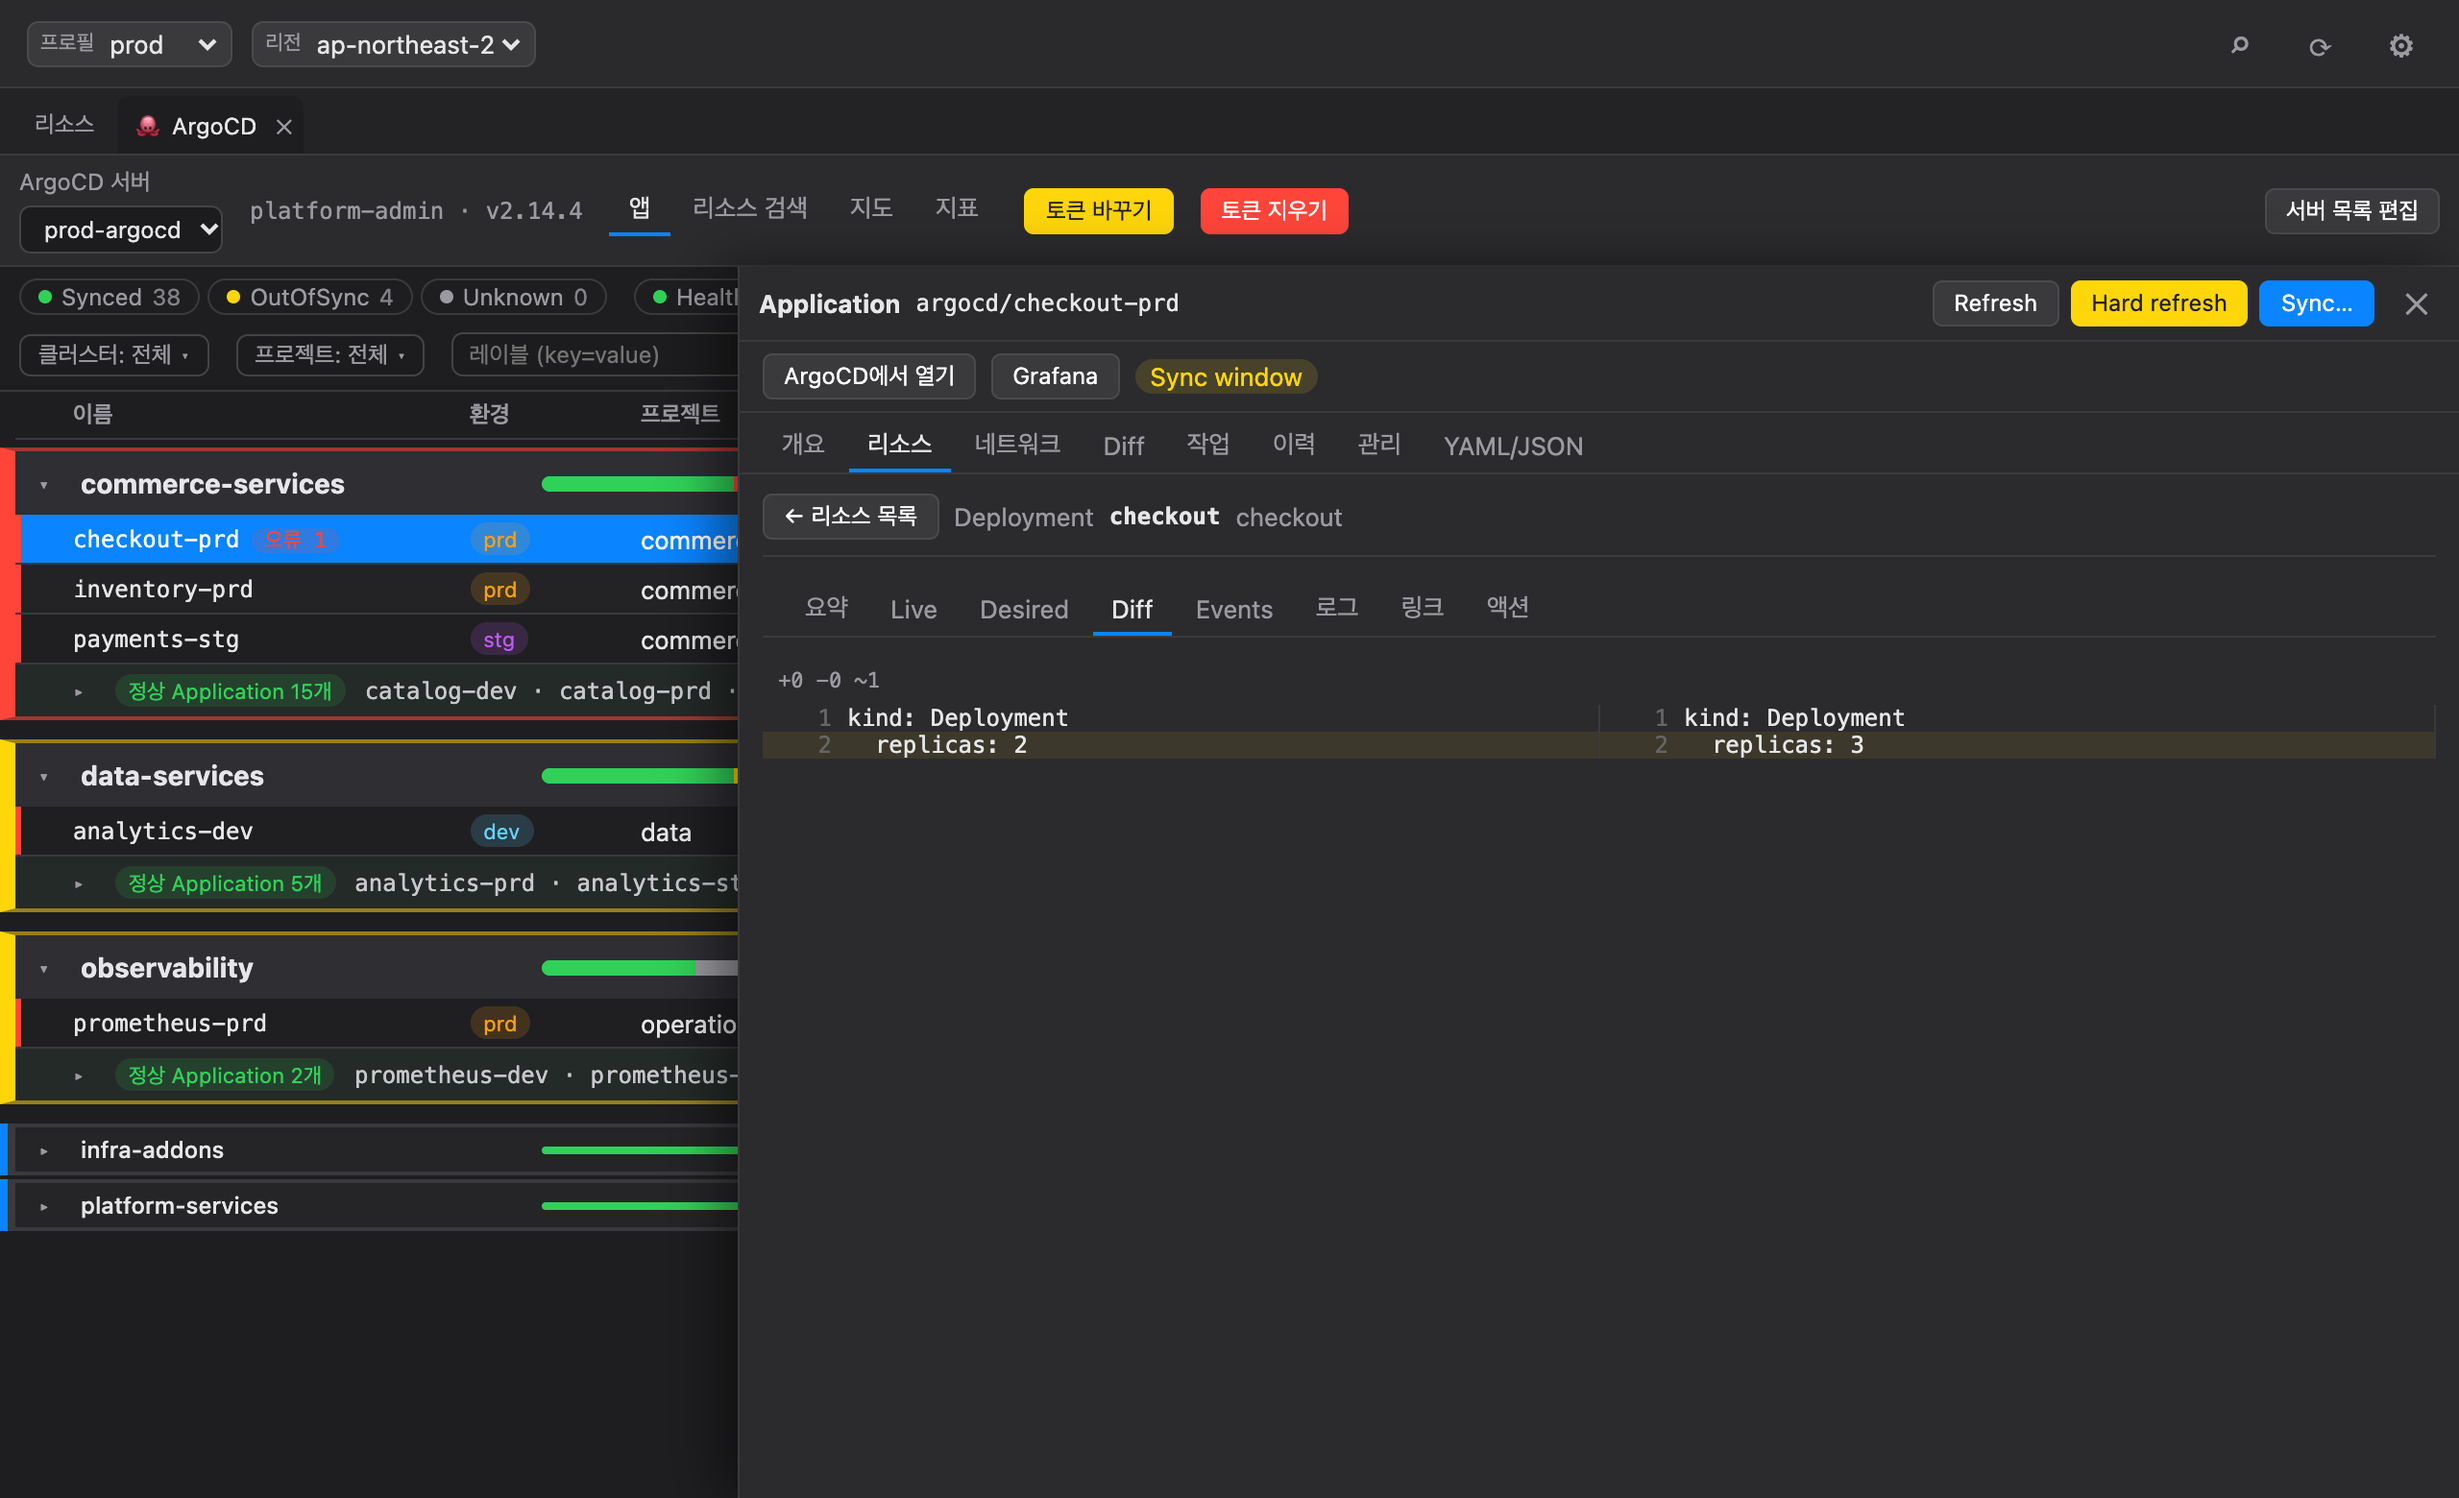
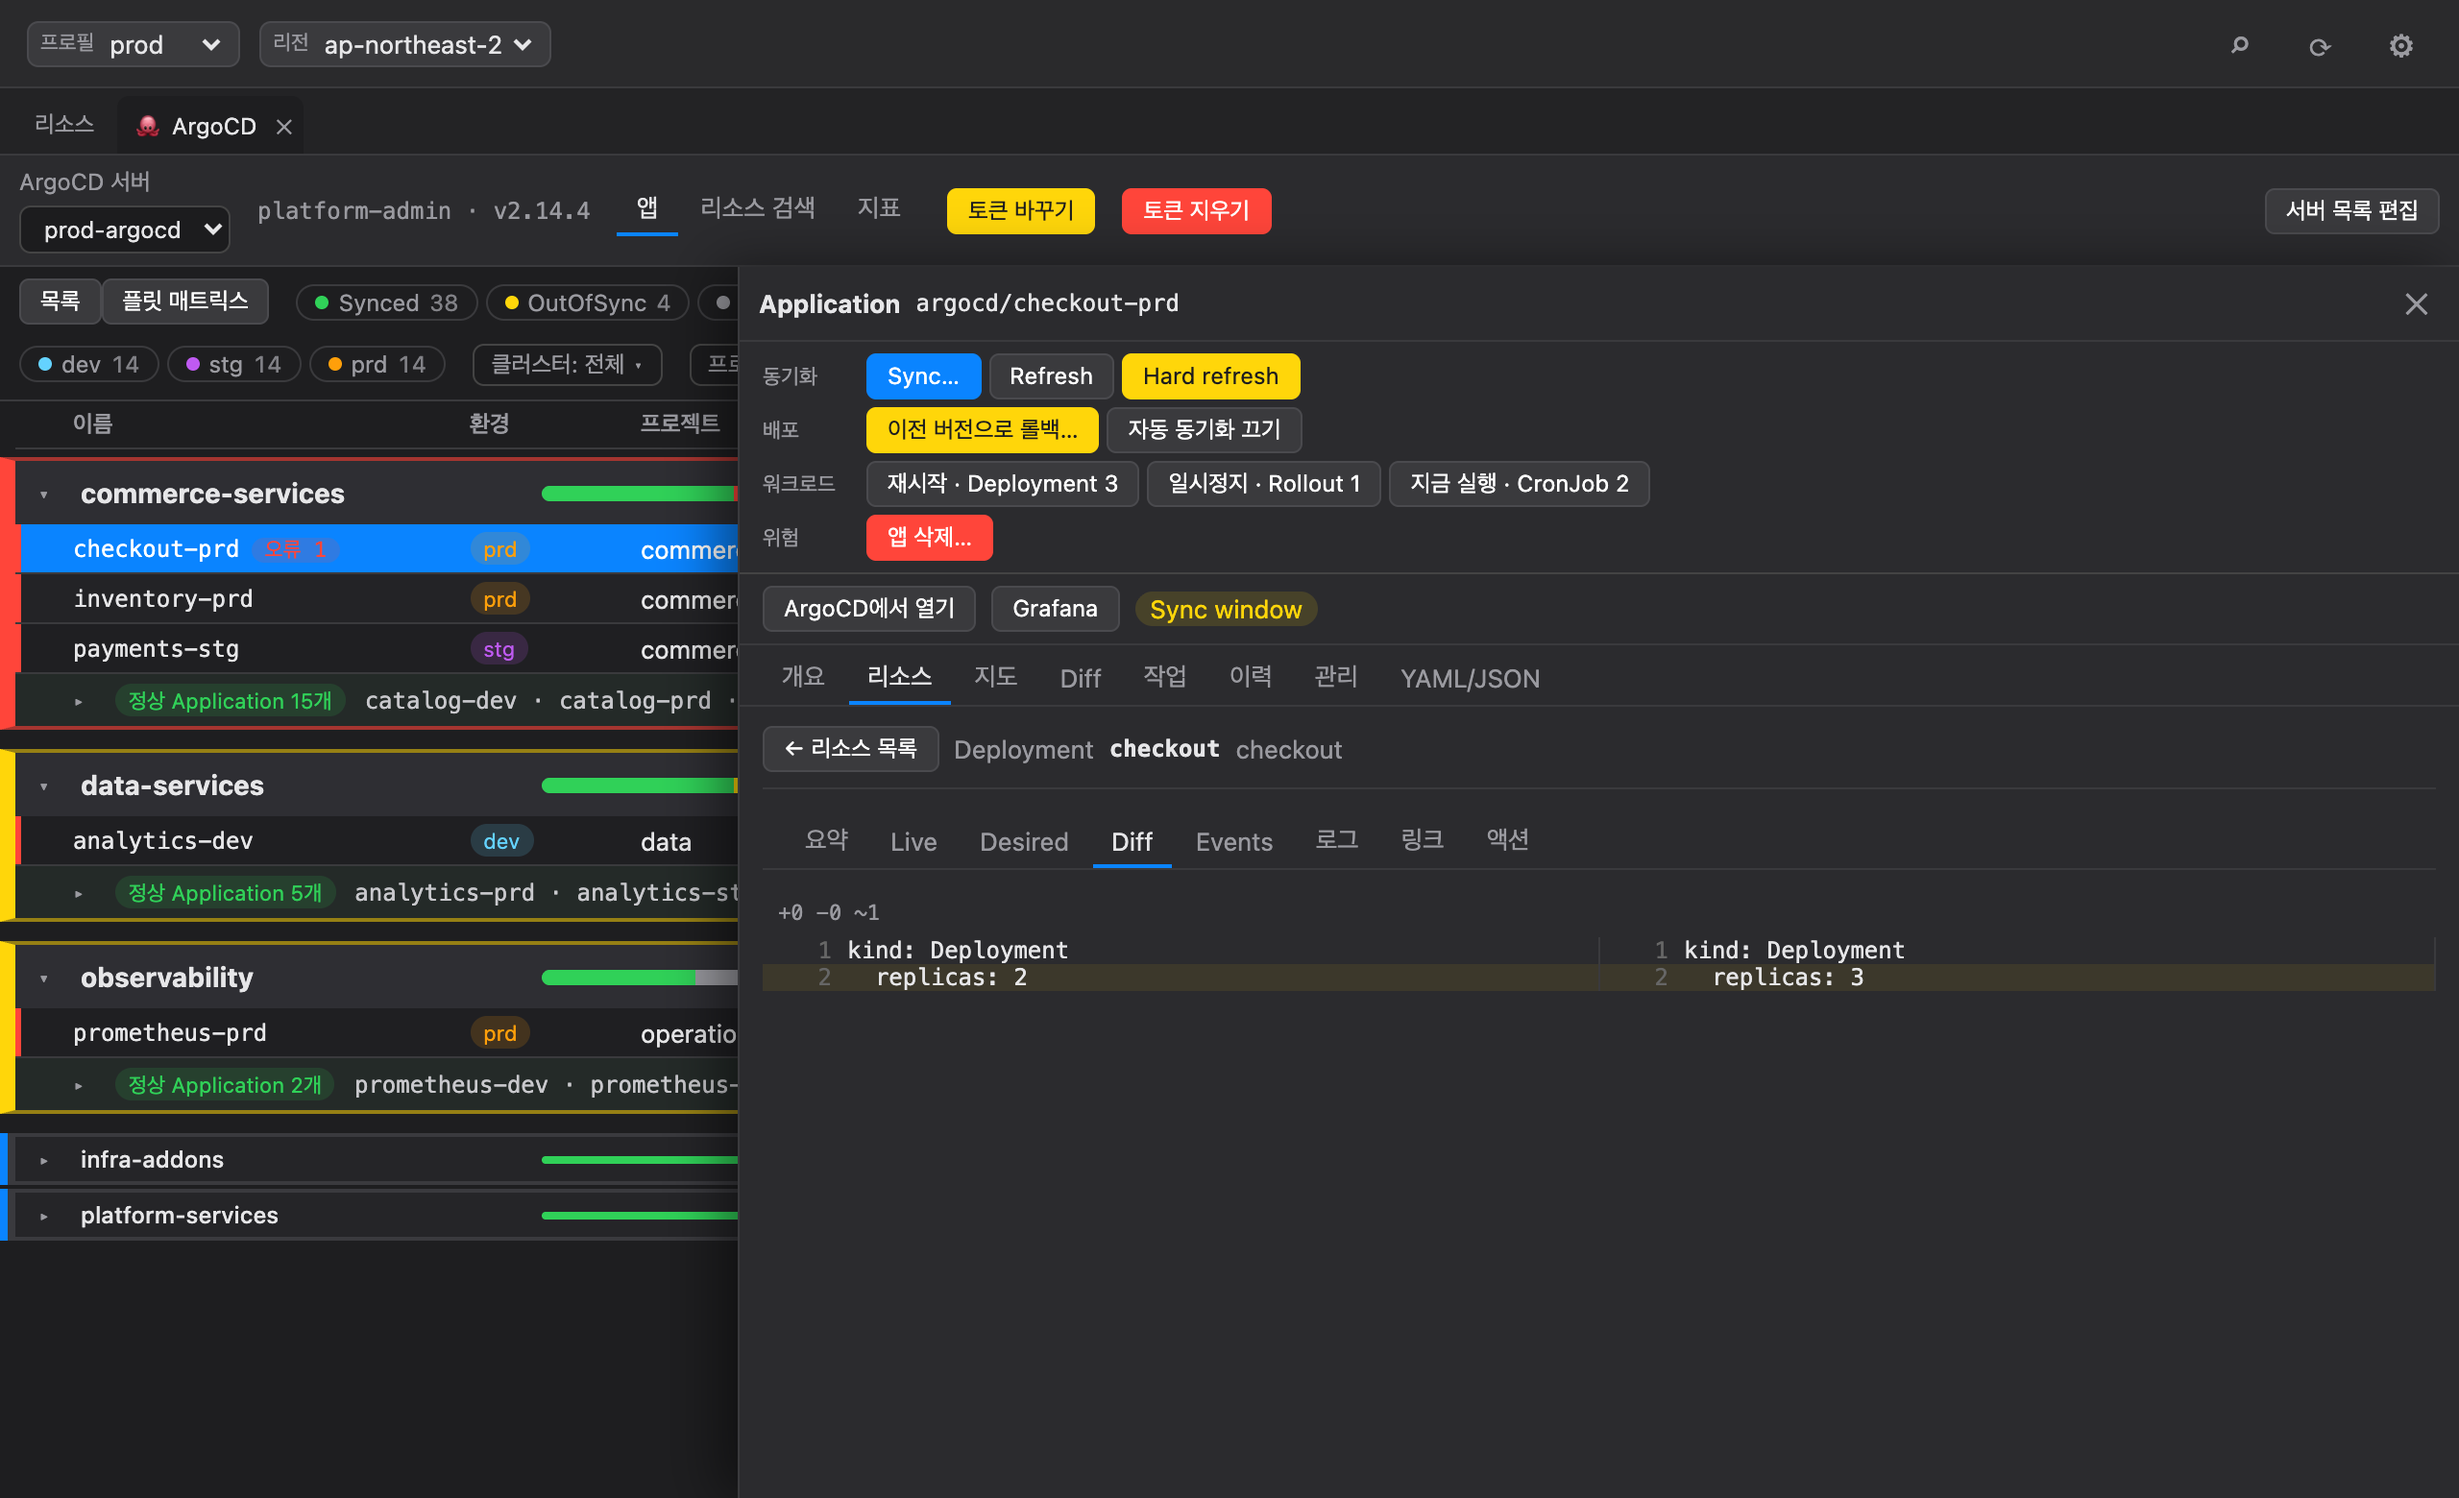
style(argocd): one row per action group in the app detail bar

diff --git a/src/styles.css b/src/styles.css
@@ -2585,6 +2585,6 @@ tbody tr.on .dim, tbody tr.on .link { color: var(--neutral-alpha-b3); }
 .argo-change-sheet label { display: flex; flex-wrap: wrap; align-items: center; gap: 6px; }
 
 /* 앱 상세 맨 위 작업 줄 */
-.argo-bar-actions { display: flex; flex-wrap: wrap; gap: 6px 14px; padding: 6px 12px; border-bottom: 1px solid var(--border-input); }
+.argo-bar-actions { display: flex; flex-direction: column; gap: 4px; padding: 6px 12px; border-bottom: 1px solid var(--border-input); }
 .argo-bar-group { display: flex; flex-wrap: wrap; align-items: center; gap: 4px; }
-.argo-bar-label { font-size: 11px; margin-right: 2px; }
+.argo-bar-label { font-size: 11px; min-width: 48px; margin-right: 2px; }
